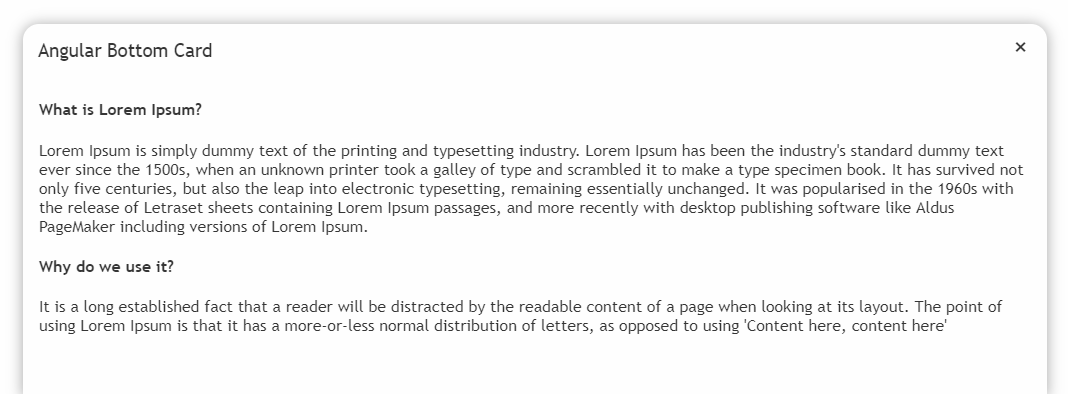
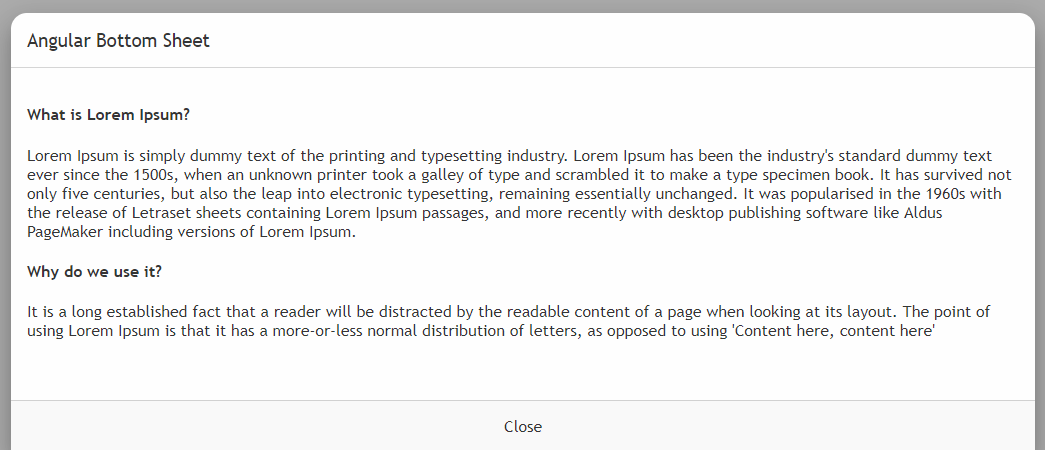
UI Overhaul

Changed region(s): [[0.0, 0.0, 1.0, 1.0], [0.49, 0.9442, 0.5206, 0.9746]]

diff --git a/src/app/component/angular-bottom-sheet.component.css b/src/app/component/angular-bottom-sheet.component.css
@@ -1,5 +1,13 @@
+.bottom-sheet-bg-overlay {
+  background: rgba(0, 0, 0, .32);
+  position: absolute;
+  top: 0;
+  bottom: 0;
+  left: 0;
+  right: 0;
+}
 
-.add-widget-popover {
+.bottom-sheet-container {
   background: #fff;
   width: 100%;
   position: fixed;
@@ -10,58 +18,46 @@
   width: 75%;
   z-index: 4;
   color: #363636;
-  box-shadow: 0px 1px 13px 1px rgba(0, 0, 0, 0.31);
+  box-shadow: 0 8px 10px -5px rgba(0, 0, 0, .2), 0 16px 24px 2px rgba(0, 0, 0, .14), 0 6px 30px 5px rgba(0, 0, 0, .12);
   font-family: 'Trebuchet MS', sans-serif;
 }
 
-.widget-popover-header h3.title {
+.bg-dark{
+  color:rgba(255, 255, 255, 0.90);
+  background: #363636;
+}
+
+.bottom-sheet-header h3.title {
   display: inline-block;
   font-weight: 500;
+  margin: 0;
 }
 
-.close {
-  color: #363636;
-  opacity: 1;
-  background: none;
-  outline: none;
-  font-size: 24px;
-  border: none;
-  padding-top: 10px;
-  position: absolute;
-  right: 2%;
+.bottom-sheet-header {
+  border-bottom: 1px solid rgba(0, 0, 0, 0.16);
+  padding: 16px;
 }
 
-.close:hover {
+.bg-dark-header {
+  border-bottom: 1px solid rgba(255, 255, 255, 0.16);
+}
+
+.bottom-sheet-footer {
+  text-align: center;
+  padding: 16px;
+  border-top: 1px solid rgba(0, 0, 0, 0.16);
+  background: rgba(0, 0, 0, 0.02);
   cursor: pointer;
 }
 
-.widget-card-container {
+.bg-dark-footer {
+  border-top: 1px solid rgba(255, 255, 255, 0.16);
+}
+
+.bottom-sheet-content {
   height: 300px;
   overflow-y: auto;
-}
-
-.p-t-15 {
-  padding-top: 15px;
-}
-
-.p-l-15 {
-  padding-left: 15px;
-}
-
-.p-r-15 {
-  padding-right: 15px;
-}
-
-.p-all-16 {
-  padding: 16px
-}
-
-.m-t-0 {
-  margin-top: 0px;
-}
-
-.m-b-0 {
-  margin-bottom: 0;
+  padding: 16px;
 }
 
 /* width */
@@ -83,4 +79,15 @@
 /* Handle on hover */
 ::-webkit-scrollbar-thumb:hover {
   background: rgb(92, 92, 92);
+}
+
+@media (max-width: 992px) {
+  .bottom-sheet-container {
+    width: 100%;
+    position: fixed;
+    bottom: 0;
+    left: 0;
+    right: 0;
+    margin-left: 0;
+  }
 }

diff --git a/src/app/component/angular-bottom-sheet.component.ts b/src/app/component/angular-bottom-sheet.component.ts
@@ -16,19 +16,24 @@ import { AngularBottomSheetConfig } from '../utility/angular-bottom-sheet.interf
 export class AngularBottomSheetComponent {
 
     flags: any = {
-        isWidgetSelectedEnabled: false
+        isBottomSheetEnabled: false
     };
 
     @Input() options: AngularBottomSheetConfig;
-    
+
     constructor(private changeDetector: ChangeDetectorRef) {
+    }
+
+    ngOnInit() {
+        this.flags.isCloseButtonEnabled = this.options.enableCloseButton ? true : false;
+        this.options.closeButtonTitle = this.options.closeButtonTitle? this.options.closeButtonTitle: "Close"
     }
 
     /**
      * Opens bottom sheet component
      */
     open() {
-        this.flags.isWidgetSelectedEnabled = true;
+        this.flags.isBottomSheetEnabled = true;
         this.changeDetector.detectChanges();
     }
 
@@ -36,7 +41,7 @@ export class AngularBottomSheetComponent {
      * Closes bottom sheet component
      */
     close() {
-        this.flags.isWidgetSelectedEnabled = false;
+        this.flags.isBottomSheetEnabled = false;
         this.changeDetector.detectChanges();
     }
 
@@ -44,7 +49,7 @@ export class AngularBottomSheetComponent {
      * Toggles bottom sheet component
      */
     toggle() {
-        this.flags.isWidgetSelectedEnabled = !this.flags.isWidgetSelectedEnabled;
+        this.flags.isBottomSheetEnabled = !this.flags.isBottomSheetEnabled;
         this.changeDetector.detectChanges();
     }
 }

diff --git a/src/app/component/angular-bottom-sheet.component.html b/src/app/component/angular-bottom-sheet.component.html
@@ -1,15 +1,15 @@
-
-<div class="add-widget-popover" *ngIf="flags.isWidgetSelectedEnabled" [style.backgroundColor]="options?.backgroundColor"
-  [style.color]="options?.fontColor" [@slideUpToggle]>
+<div class="bottom-sheet-bg-overlay" *ngIf="flags.isBottomSheetEnabled" (click)="close()"></div>
+<div class="bottom-sheet-container" [ngClass]="{'bg-dark': options?.darkTheme}" *ngIf="flags.isBottomSheetEnabled"
+  [style.backgroundColor]="options?.backgroundColor" [style.color]="options?.fontColor" [@slideUpToggle]>
   <div>
-    <div class="p-l-15 p-r-15 widget-popover-header">
-      <h3 class="m-t-0 m-b-0 title  p-t-15">{{options?.title}}</h3>
-      <button type="button" class="close pull-right" aria-label="Close" (click)="flags.isWidgetSelectedEnabled = false">
-        <i aria-hidden="true" [style.color]="options?.fontColor"><span>&times;</span></i>
-      </button>
+    <div class="bottom-sheet-header" [ngClass]="{'bg-dark-header': options?.darkTheme}">
+      <h3 class="title">{{options?.title}}</h3>
     </div>
-    <div class="widget-card-container p-all-16">
+    <div class="bottom-sheet-content">
       <ng-content></ng-content>
+    </div>
+    <div class="bottom-sheet-footer" [ngClass]="{'bg-dark-footer': options?.darkTheme}" (click)="close()" *ngIf="flags.isCloseButtonEnabled">
+      {{options.closeButtonTitle}}
     </div>
   </div>
 </div>

diff --git a/src/app/testing/testing.component.ts b/src/app/testing/testing.component.ts
@@ -14,7 +14,9 @@ export class TestingComponent implements OnInit {
 
   ngOnInit() {
     this.options = {
-      title: "Angular Bottom Card"
+      title: "Angular Bottom Sheet",
+      enableCloseButton: true,
+      darkTheme:true
     }
   }
 

diff --git a/src/app/utility/angular-bottom-sheet.interface.ts b/src/app/utility/angular-bottom-sheet.interface.ts
@@ -2,4 +2,7 @@ export interface AngularBottomSheetConfig {
     title?: string;
     backgroundColor?: string;
     fontColor?: string;
+    enableCloseButton?: boolean;
+    closeButtonTitle?: string;
+    darkTheme?: boolean;
 }

diff --git a/README.md b/README.md
@@ -4,9 +4,6 @@ Angular Bottom Sheet [Demo](http://rahulprabhakar.in/angular-bottom-sheet/)
 
 Requires Angular 7.x
 
-## Screenshot 
-
-![Screenshot1](screenshot/Screenshot-1.png)
 
 ## Install
 
@@ -77,7 +74,10 @@ export class AppComponent {
 }
 
 ```
+## Screenshot 
 
+![Screenshot1](screenshot/Screenshot-1.png)
+![Screenshot2](screenshot/Screenshot-2.png)
 
 
 ### Settings
@@ -88,6 +88,9 @@ The following list of settings are supported by the component. Configure the opt
 | title | String | To set the title for the bottom sheet component. | "" |
 | backgroundColor | String | To set the background color of the bottom sheet component. | "#fff" |
 | fontColor | String | To set the font color of the bottom sheet component. | "#363636" |
+| enableCloseButton | Boolean | To enable the close button in bottom sheet component. | false |
+| closeButtonTitle | String | To set the value for close button in bottom sheet component. | "Close" |
+| darkTheme | Boolean | To enable the dark theme in the bottom sheet component. | false |
 
 ### Events
 - `open()` - opens the bottom sheet component.
